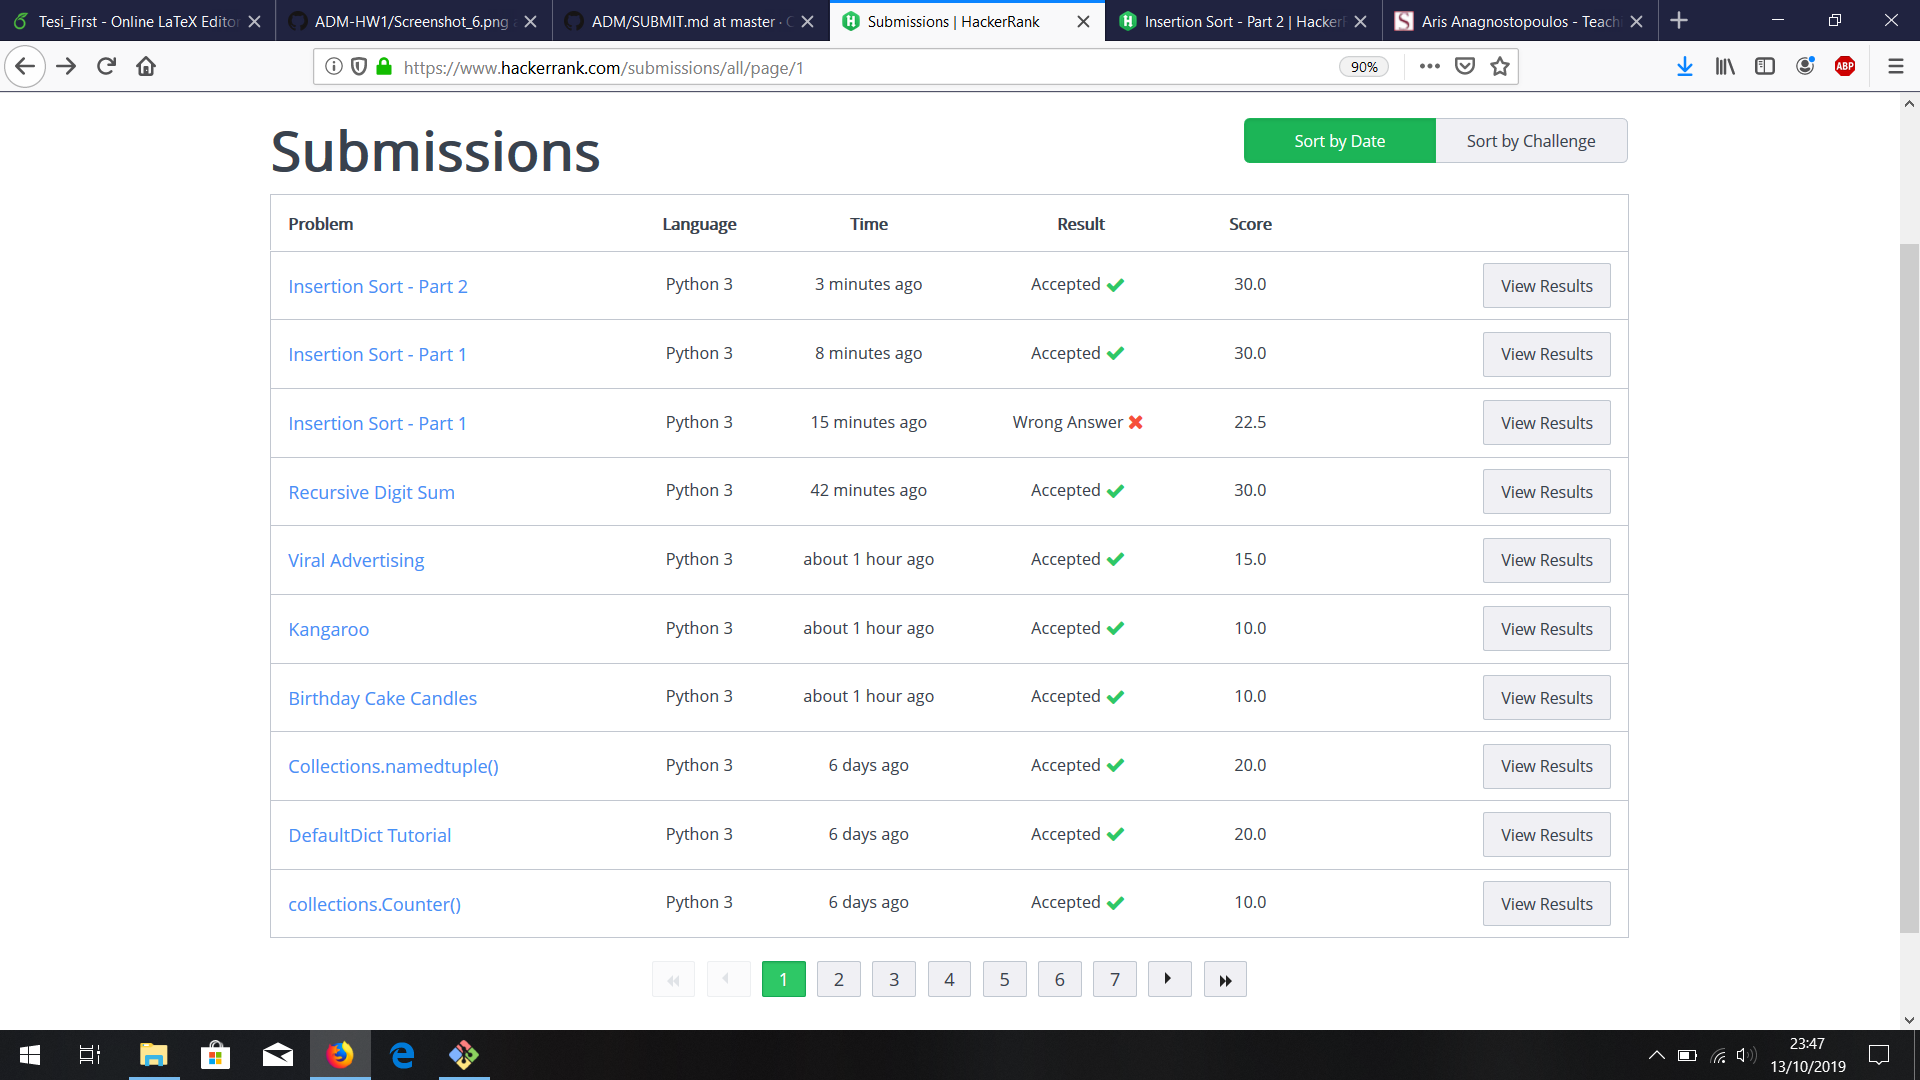
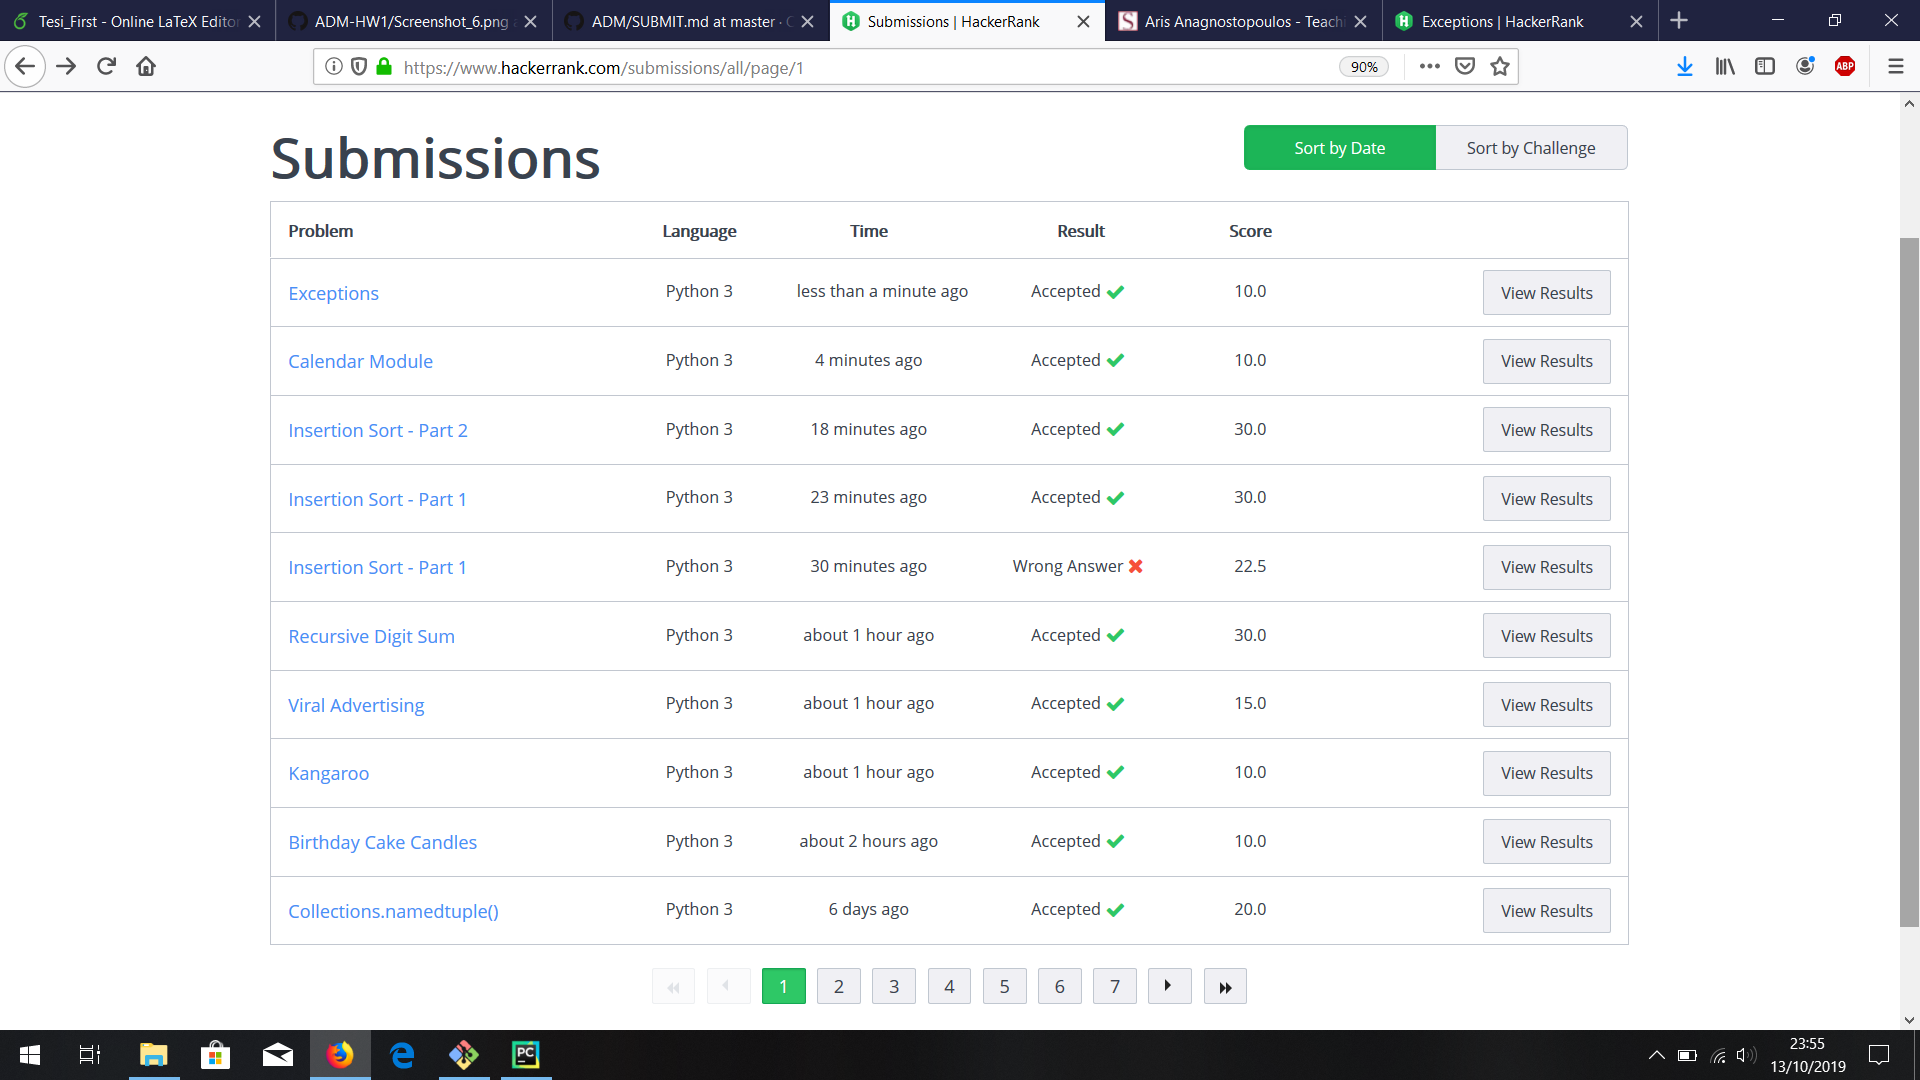
added new stamp and modified scripts.py

diff --git a/scripts/scripts.py b/scripts/scripts.py
@@ -687,6 +687,22 @@ if __name__ == '__main__':
 
     insertionSort2(n, arr)
 
+# Date and Time -> Calendar Module
+import calendar
+
+date = input().strip().split()
+
+daysCalendar = list(calendar.day_name)
+print(daysCalendar[calendar.weekday(int(date[2]), int(date[0]), int(date[1]))].upper())
+
+# Errors and Exceptions -> Exceptions
+for _ in range(int(input())):
+    a, b = input().split()
+    try:
+        print(int(a) // int(b))
+    except Exception as exc:
+        print('Error Code: ' + str(exc))
+
 
 
 
